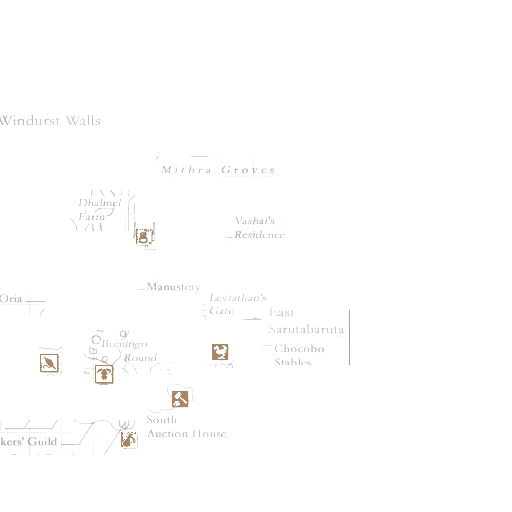
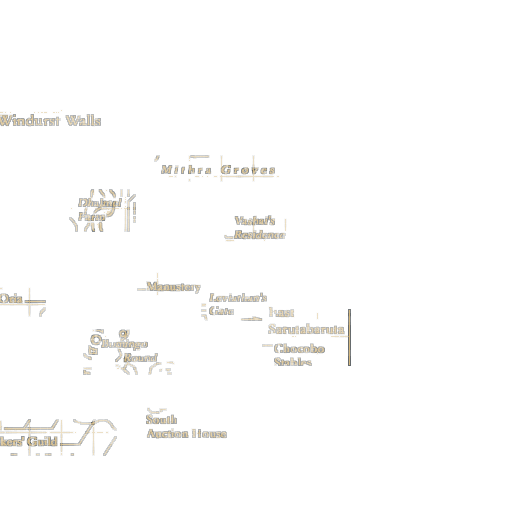
Build production Windurst Woods map

diff --git a/tools/style_dark_tactical_layers.py b/tools/style_dark_tactical_layers.py
@@ -1,0 +1,122 @@
+"""Build dark-tactical map layers from calibrated vanilla-derived masks.
+
+The source alpha coordinates are preserved. Styling adds only a centered
+one-pixel halo, so the original navigation line remains the precision anchor.
+Static landmark symbols can be split from the ordinary label layer with
+explicit source-pixel rectangles.
+"""
+
+from __future__ import annotations
+
+import argparse
+from pathlib import Path
+
+from PIL import Image, ImageChops, ImageDraw, ImageFilter
+
+
+Box = tuple[int, int, int, int]
+
+
+def parse_box(value: str) -> Box:
+    parts = tuple(int(part.strip()) for part in value.split(","))
+    if len(parts) != 4:
+        raise argparse.ArgumentTypeError("box must be left,top,right,bottom")
+    return parts
+
+
+def boosted_alpha(alpha: Image.Image, multiplier: float, floor: int) -> Image.Image:
+    return alpha.point(
+        lambda value: 0
+        if value == 0
+        else min(255, max(floor, int((value * multiplier) + 0.5)))
+    )
+
+
+def styled_layer(
+    alpha: Image.Image,
+    core_color: tuple[int, int, int],
+    halo_color: tuple[int, int, int],
+    alpha_multiplier: float,
+    alpha_floor: int,
+    halo_strength: float,
+) -> Image.Image:
+    core_alpha = boosted_alpha(alpha, alpha_multiplier, alpha_floor)
+    dilated = alpha.filter(ImageFilter.MaxFilter(3))
+    halo_alpha = ImageChops.subtract(dilated, alpha).point(
+        lambda value: min(255, int((value * halo_strength) + 0.5))
+    )
+
+    output = Image.new("RGBA", alpha.size, halo_color + (0,))
+    output.putalpha(halo_alpha)
+    core = Image.new("RGBA", alpha.size, core_color + (0,))
+    core.putalpha(core_alpha)
+    return Image.alpha_composite(output, core)
+
+
+def split_landmarks(label_alpha: Image.Image, boxes: list[Box]) -> tuple[Image.Image, Image.Image]:
+    selection = Image.new("L", label_alpha.size, 0)
+    draw = ImageDraw.Draw(selection)
+    for left, top, right, bottom in boxes:
+        draw.rectangle((left, top, right - 1, bottom - 1), fill=255)
+
+    landmarks = ImageChops.multiply(label_alpha, selection)
+    labels = ImageChops.subtract(label_alpha, landmarks)
+    return labels, landmarks
+
+
+def save(layer: Image.Image, destination: Path) -> None:
+    destination.parent.mkdir(parents=True, exist_ok=True)
+    layer.save(destination, "PNG", optimize=True)
+
+
+def main() -> None:
+    parser = argparse.ArgumentParser()
+    parser.add_argument("structure_source", type=Path)
+    parser.add_argument("labels_source", type=Path)
+    parser.add_argument("structure_destination", type=Path)
+    parser.add_argument("labels_destination", type=Path)
+    parser.add_argument("landmarks_destination", type=Path)
+    parser.add_argument("--landmark-box", action="append", default=[], type=parse_box)
+    arguments = parser.parse_args()
+
+    structure_source = Image.open(arguments.structure_source).convert("RGBA")
+    labels_source = Image.open(arguments.labels_source).convert("RGBA")
+    if structure_source.size != labels_source.size:
+        raise ValueError("structure and label sources must have identical dimensions")
+
+    label_alpha, landmark_alpha = split_landmarks(
+        labels_source.getchannel("A"),
+        arguments.landmark_box,
+    )
+    structure = styled_layer(
+        structure_source.getchannel("A"),
+        core_color=(82, 151, 158),
+        halo_color=(2, 13, 18),
+        alpha_multiplier=1.75,
+        alpha_floor=92,
+        halo_strength=0.72,
+    )
+    labels = styled_layer(
+        label_alpha,
+        core_color=(213, 184, 126),
+        halo_color=(2, 10, 14),
+        alpha_multiplier=1.85,
+        alpha_floor=112,
+        halo_strength=0.90,
+    )
+    landmarks = styled_layer(
+        landmark_alpha,
+        core_color=(242, 166, 61),
+        halo_color=(3, 9, 12),
+        alpha_multiplier=2.10,
+        alpha_floor=150,
+        halo_strength=1.00,
+    )
+
+    save(structure, arguments.structure_destination)
+    save(labels, arguments.labels_destination)
+    save(landmarks, arguments.landmarks_destination)
+
+
+if __name__ == "__main__":
+    main()

diff --git a/README.md b/README.md
@@ -13,7 +13,7 @@ The first prototype includes:
 - an in-game configuration window with persistent settings;
 - unlock-and-drag positioning;
 - mouse-wheel zoom while the pointer is over the map;
-- independently composited structure and label layers;
+- independently composited structure, label, and landmark layers;
 - deterministic world-coordinate-to-image calibration;
 - map definitions for South Gustaberg (zone 107), Port Bastok (zone 236),
   Metalworks (zone 237), and Windurst Woods (zone 241).
@@ -42,7 +42,8 @@ The first prototype includes:
 Run `/aminimap config` to open the in-game configuration window. It controls:
 
 - map visibility, position lock, size, and zoom;
-- independent structure and label visibility, opacity, and line-strength boost;
+- independent structure, label, and landmark visibility, opacity, and
+  line-strength boost;
 - an optional dark translucent backdrop for bright game environments;
 - coordinate grid and coordinate badge visibility;
 - player, NPC, monster, and entity-name markers.
@@ -75,15 +76,18 @@ The renderer draws map content in this order:
 
 1. optional dark backdrop;
 2. calibrated map structure;
-3. labels and static map annotations;
-4. coordinate grid;
-5. live entities and player arrow;
-6. coordinate badge and unlocked-state hint.
+3. place names and exit labels;
+4. static service and landmark symbols;
+5. coordinate grid;
+6. live entities and player arrow;
+7. coordinate badge and unlocked-state hint.
 
-Metalworks and Windurst Woods have fully split structure and annotation layers.
-Each pair comes from one decoded vanilla DAT texture and shares one origin and
-scale. South Gustaberg and Port Bastok still use flattened prototype assets, so
-their embedded labels cannot yet be hidden independently.
+Windurst Woods is the first production dark-tactical map. Its navigation
+structure, place names, and static landmark symbols are separate layers
+generated from immutable vanilla-derived masks. All three share the same
+verified origin and scale. Metalworks has separate structure and annotation
+layers. South Gustaberg and Port Bastok still use flattened prototype assets,
+so their embedded labels cannot yet be hidden independently.
 
 Map calibration lives in `ashitaminimap_maps.lua`. The image and world coordinate
 systems are related by:
@@ -105,9 +109,11 @@ tuning.
 
 ## Map asset status
 
-Metalworks and Windurst Woods use exact vanilla DAT pixels, split into
-structure and annotation layers before transparency is applied. Metalworks is
-horizontally unwrapped; Windurst Woods uses its original no-wrap page layout.
+Metalworks and Windurst Woods use exact vanilla DAT pixels as their geometry
+source. Metalworks is horizontally unwrapped. Windurst Woods uses its original
+no-wrap page layout and applies a deterministic dark-tactical style with teal
+structure lines, warm place labels, and amber landmark symbols. Styling adds a
+centered halo but does not replace or move the source navigation pixels.
 The South Gustaberg and Port Bastok images remain flattened transparency and
 calibration prototypes generated from locally installed reference maps. They
 are not yet precision-traced walkable-area masks.

diff --git a/assets/maps/README.md b/assets/maps/README.md
@@ -6,15 +6,21 @@ Files are named by FFXI zone ID.
 - `236.png` — Port Bastok
 - `237_structure.png` — Metalworks calibrated geometry
 - `237_labels.png` — Metalworks labels and map annotations
-- `241_structure.png` — Windurst Woods calibrated geometry
-- `241_labels.png` — Windurst Woods labels and map annotations
+- `241_structure_source.png` — Windurst Woods immutable geometry mask
+- `241_labels_source.png` — Windurst Woods immutable annotation mask
+- `241_structure.png` — Windurst Woods dark-tactical geometry
+- `241_labels.png` — Windurst Woods place and exit labels
+- `241_landmarks.png` — Windurst Woods service and landmark symbols
 
-Every image must have real per-pixel alpha. Transparent pixels remain invisible
-because AshitaMinimap draws the PNG directly through Direct3D instead of asking
-the stock minimap DLL to render it.
+Every visible image must have real per-pixel alpha. Transparent pixels remain
+invisible because AshitaMinimap draws the PNG directly through Direct3D instead
+of asking the stock minimap DLL to render it.
 
-The current files are linework-focused transparency prototypes. Metalworks and
-Windurst Woods use vanilla map pixels and deterministic grid calibration. Each
-zone's structure and label layers share identical dimensions, origin, and world
-scale, so they can be composited or hidden independently without changing
-alignment. Their alpha masks are not yet filled walkable-area masks.
+Metalworks remains a linework-focused transparency prototype. Windurst Woods is
+the production reference: `tools/style_dark_tactical_layers.py` generates its
+visible structure, label, and landmark layers from the immutable source masks.
+Every generated layer has identical dimensions, origin, and world scale.
+
+The assets are intentionally not filled walkable-area masks. The vanilla source
+does not encode a trustworthy closed walkability polygon, so adding one by
+visual inference would weaken map precision.

diff --git a/docs/MAP_CALIBRATION.md b/docs/MAP_CALIBRATION.md
@@ -18,7 +18,8 @@ image_y = origin_y - world_y * image_pixels_per_yalm
 The same transform must be used for:
 
 - the structure layer;
-- the label and static-annotation layer;
+- the label layer;
+- the static landmark and service-symbol layer;
 - the player marker;
 - entity and target markers;
 - the Lua-rendered coordinate grid.
@@ -48,6 +49,7 @@ Required fields are:
     name = 'Zone Name',
     structure_image = 'assets/maps/<zone>_structure.png',
     labels_image = 'assets/maps/<zone>_labels.png',
+    landmarks_image = 'assets/maps/<zone>_landmarks.png',
     width = 512,
     height = 512,
     origin_x = 253,
@@ -58,7 +60,7 @@ Required fields are:
 ```
 
 A temporary flattened `image` is supported, but a production map should use
-separate structure and label layers.
+separate structure, label, and landmark layers when the source permits it.
 
 ## Deterministic import procedure
 
@@ -69,8 +71,9 @@ separate structure and label layers.
    apply a horizontal wrap offset.
 3. Unwrap and crop once. Record every offset. Apply the identical operation to
    every derived layer.
-4. Split structure from labels with `tools/split_map_layers.py`. The outputs
-   must have identical dimensions and pixel coordinates.
+4. Split structure from labels with `tools/split_map_layers.py`, then split
+   known static landmark symbols from ordinary text. The outputs must have
+   identical dimensions and pixel coordinates.
 5. Obtain the map's scale metadata. For known vanilla maps,
    `grid_yalms = map_scale_byte * 10`. Store the result per map; do not use a
    repository-wide default as calibration.

diff --git a/assets/maps/241.md b/assets/maps/241.md
@@ -12,6 +12,37 @@ The source was decoded directly with `tools/generate_vanilla_map.py`. The
 navigation and annotation layers retain identical source dimensions and pixel
 coordinates.
 
+## Production layers
+
+Windurst Woods is the dark-tactical production reference:
+
+- `241_structure_source.png` and `241_labels_source.png` preserve the
+  vanilla-derived alpha coordinates.
+- `241_structure.png` renders calibrated geometry in desaturated tactical teal.
+- `241_labels.png` renders place and exit text in warm sand.
+- `241_landmarks.png` renders static service and landmark symbols in amber.
+
+The visible files are generated with:
+
+```text
+python tools/style_dark_tactical_layers.py \
+  assets/maps/241_structure_source.png \
+  assets/maps/241_labels_source.png \
+  assets/maps/241_structure.png \
+  assets/maps/241_labels.png \
+  assets/maps/241_landmarks.png \
+  --landmark-box 133,222,156,251 \
+  --landmark-box 38,345,62,376 \
+  --landmark-box 91,356,116,385 \
+  --landmark-box 207,336,234,368 \
+  --landmark-box 166,383,194,413 \
+  --landmark-box 116,420,140,450
+```
+
+Styling preserves every source-alpha pixel and adds only a centered one-pixel
+halo. The landmark rectangles are source-pixel selections, so splitting the
+layers does not alter their shared calibration.
+
 ## Extraction regions
 
 The tactical linework includes source rectangle `(0,75)-(350,455)`. The
